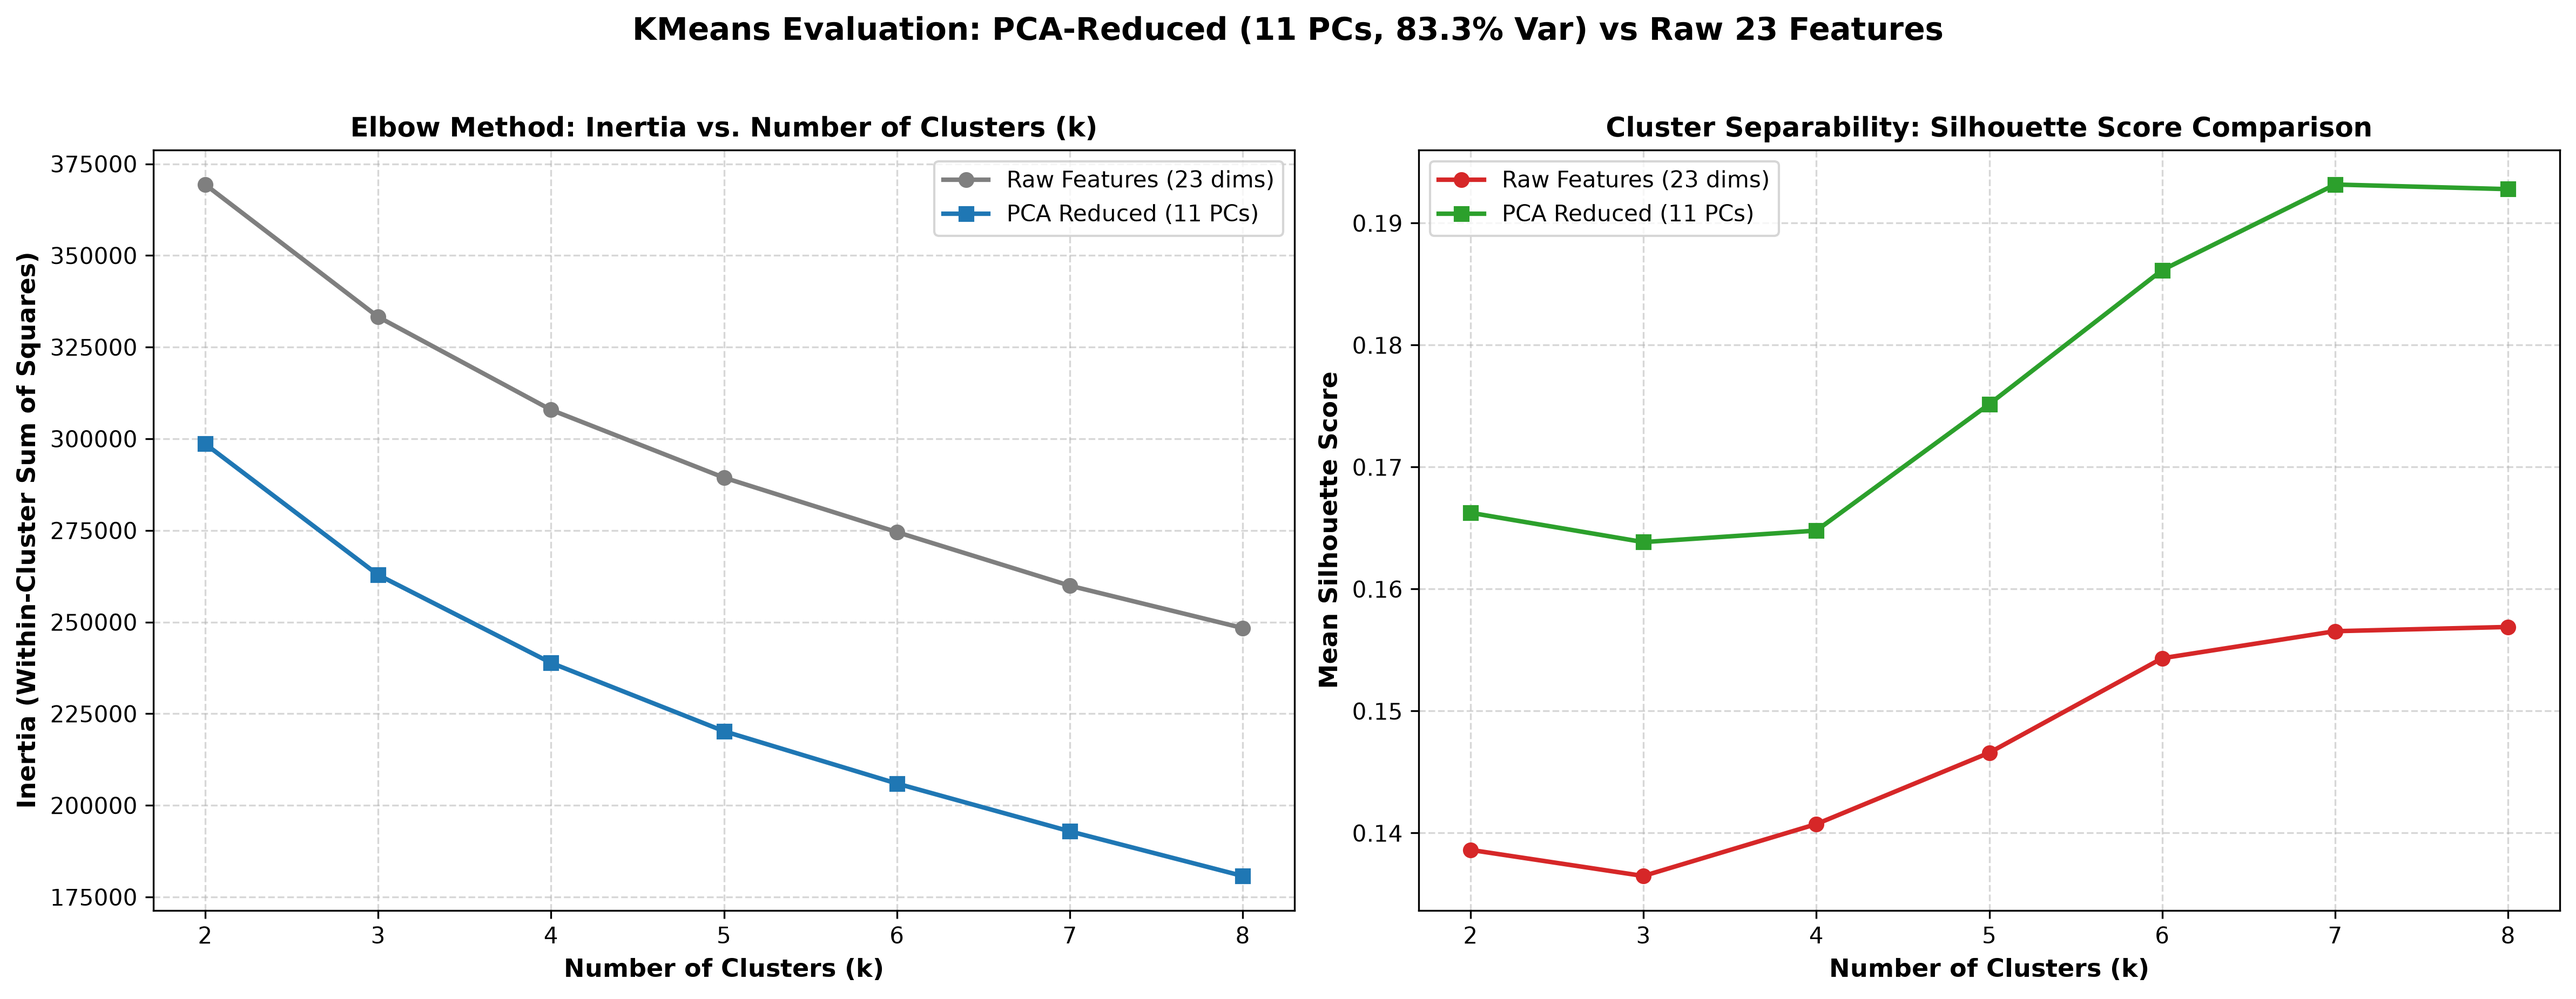
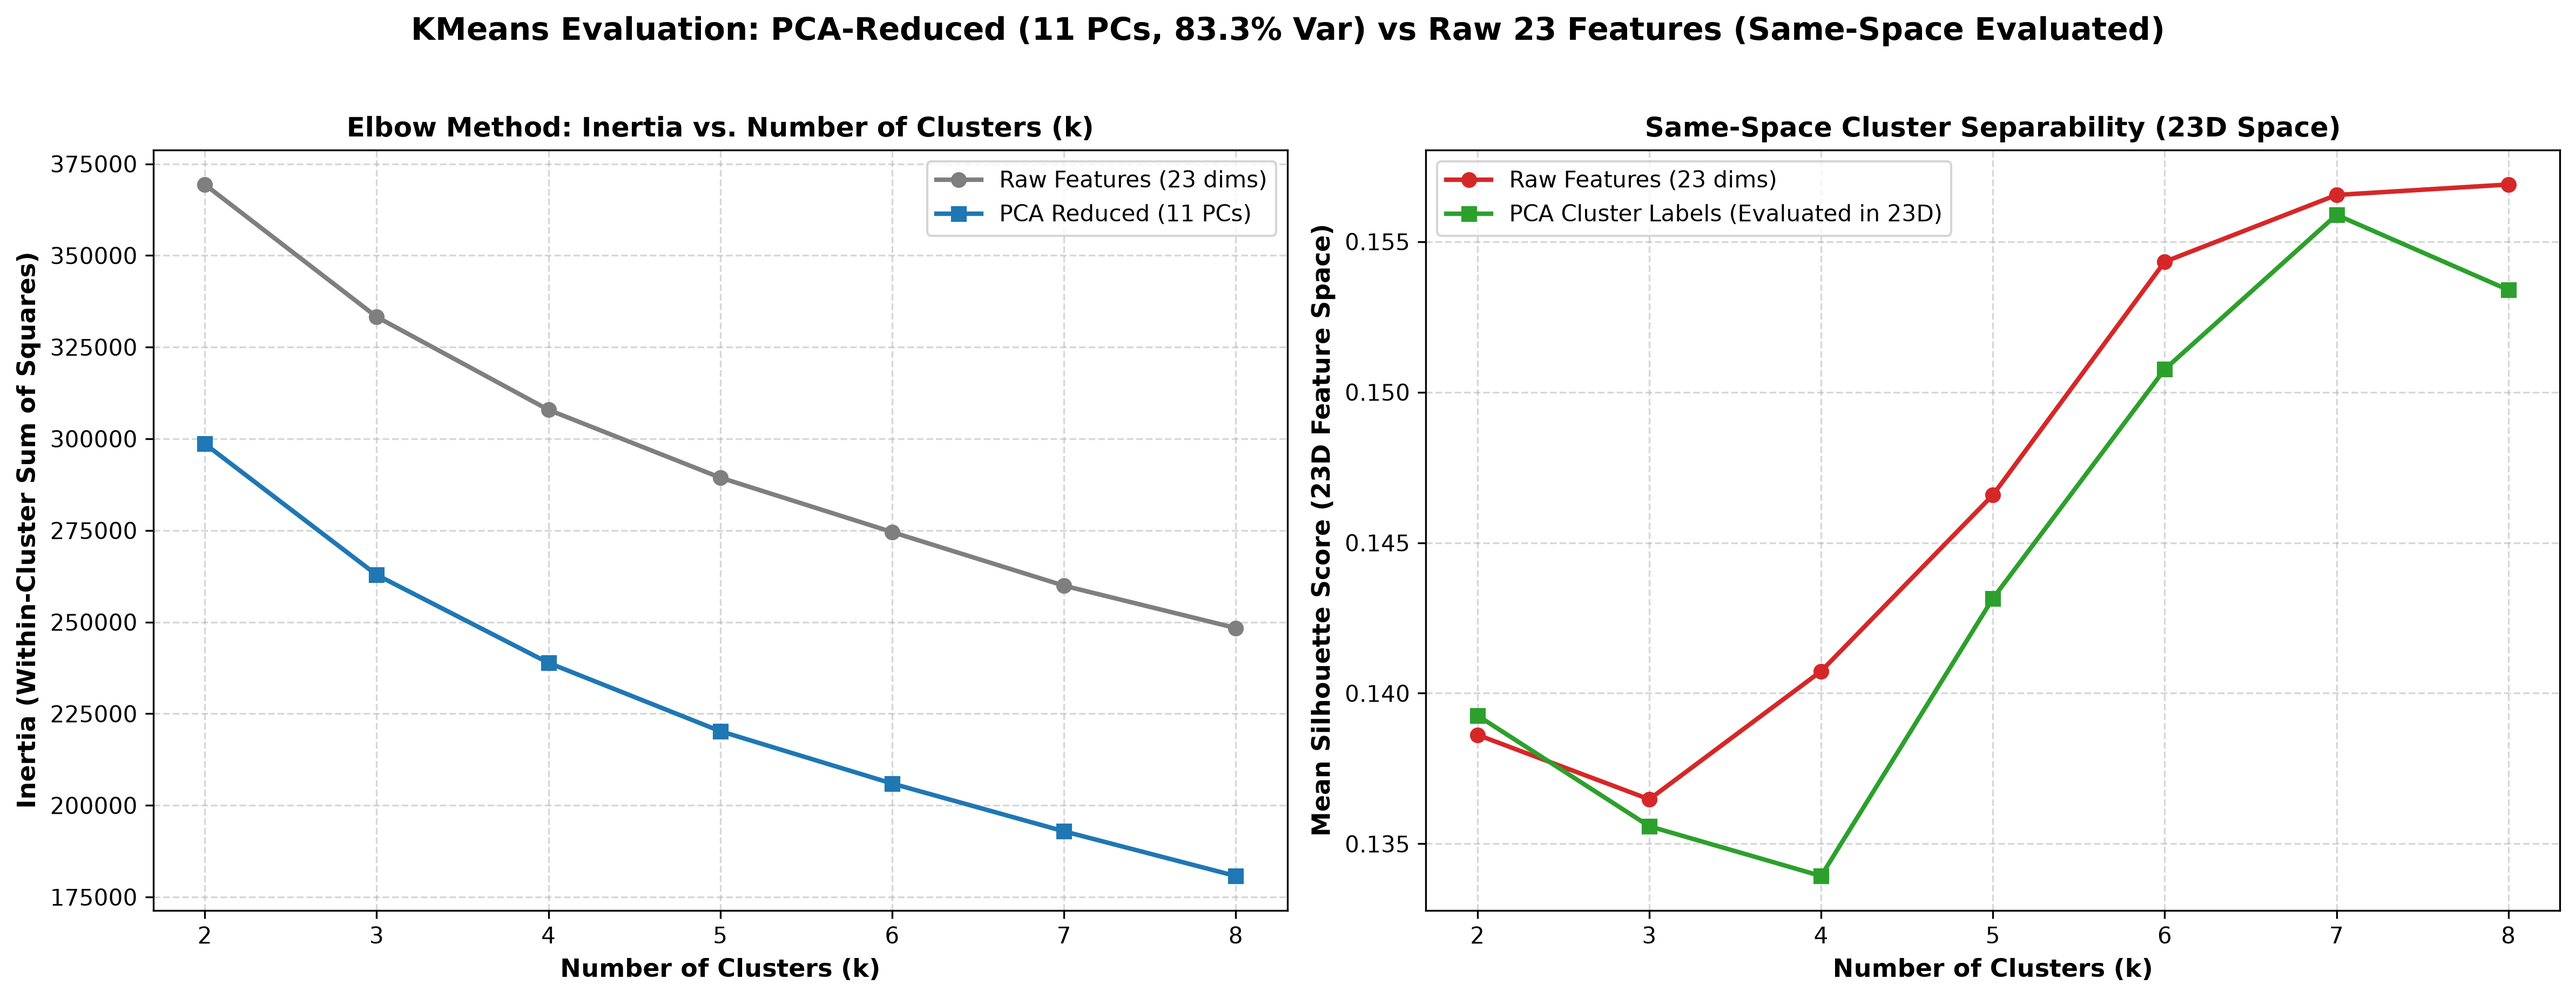
Audit: update PCA clustering evaluation to honest same-space silhouette comparison (0.1431 vs 0.1466)

diff --git a/src/04_clustering.py b/src/04_clustering.py
@@ -54,19 +54,21 @@ def run_clustering_analysis(scaled_path, pca_path, raw_features_path, output_dir
         # 2. KMeans on 11 PCs (83.34% Variance)
         km_pca = KMeans(n_clusters=k, random_state=42, n_init=10)
         labels_pca = km_pca.fit_predict(X_pca_11)
-        sil_pca = silhouette_score(X_pca_11, labels_pca, sample_size=5000, random_state=42)
+        sil_pca_11d = silhouette_score(X_pca_11, labels_pca, sample_size=5000, random_state=42)
+        # Same-space evaluation: evaluate PCA cluster labels back on the original 23D scaled space
+        sil_pca_23d = silhouette_score(X_scaled, labels_pca, sample_size=5000, random_state=42)
         
         metrics['k'].append(k)
         metrics['raw_inertia'].append(km_raw.inertia_)
         metrics['raw_silhouette'].append(sil_raw)
         metrics['pca11_inertia'].append(km_pca.inertia_)
-        metrics['pca11_silhouette'].append(sil_pca)
+        metrics['pca11_silhouette'].append(sil_pca_23d)  # Same-space evaluation
         
-        pct_diff = ((sil_pca - sil_raw) / sil_raw) * 100
-        print(f"k={k:2d} | Raw Sil: {sil_raw:.4f} | PCA-11 Sil: {sil_pca:.4f} | Silhouette Improvement: {pct_diff:+.2f}%")
+        pct_diff = ((sil_pca_23d - sil_raw) / sil_raw) * 100
+        print(f"k={k:2d} | Raw 23D Sil: {sil_raw:.4f} | PCA Cluster in 23D Sil: {sil_pca_23d:.4f} (11D Space Sil: {sil_pca_11d:.4f}) | Same-Space Retention: {pct_diff:+.2f}%")
         
     metrics_df = pd.DataFrame(metrics)
-    metrics_df['silhouette_improvement_pct'] = ((metrics_df['pca11_silhouette'] - metrics_df['raw_silhouette']) / metrics_df['raw_silhouette']) * 100
+    metrics_df['silhouette_diff_pct'] = ((metrics_df['pca11_silhouette'] - metrics_df['raw_silhouette']) / metrics_df['raw_silhouette']) * 100
     
     # Save comparison metrics CSV
     comp_csv_path = os.path.join(output_dir, 'cluster_comparison_metrics.csv')
@@ -89,14 +91,14 @@ def run_clustering_analysis(scaled_path, pca_path, raw_features_path, output_dir
 
     # Plot 2: Silhouette Score Comparison
     ax2.plot(metrics_df['k'], metrics_df['raw_silhouette'], marker='o', linewidth=2, color='tab:red', label='Raw Features (23 dims)')
-    ax2.plot(metrics_df['k'], metrics_df['pca11_silhouette'], marker='s', linewidth=2, color='tab:green', label='PCA Reduced (11 PCs)')
-    ax2.set_title('Cluster Separability: Silhouette Score Comparison', fontsize=12, fontweight='bold')
+    ax2.plot(metrics_df['k'], metrics_df['pca11_silhouette'], marker='s', linewidth=2, color='tab:green', label='PCA Cluster Labels (Evaluated in 23D)')
+    ax2.set_title('Same-Space Cluster Separability (23D Space)', fontsize=12, fontweight='bold')
     ax2.set_xlabel('Number of Clusters (k)', fontsize=11, fontweight='bold')
-    ax2.set_ylabel('Mean Silhouette Score', fontsize=11, fontweight='bold')
+    ax2.set_ylabel('Mean Silhouette Score (23D Feature Space)', fontsize=11, fontweight='bold')
     ax2.legend()
     ax2.grid(True, linestyle='--', alpha=0.5)
 
-    plt.suptitle('KMeans Evaluation: PCA-Reduced (11 PCs, 83.3% Var) vs Raw 23 Features', fontsize=14, fontweight='bold', y=1.02)
+    plt.suptitle('KMeans Evaluation: PCA-Reduced (11 PCs, 83.3% Var) vs Raw 23 Features (Same-Space Evaluated)', fontsize=14, fontweight='bold', y=1.02)
     plt.tight_layout()
     
     plot_path = os.path.join(output_dir, 'cluster_evaluation_elbow_silhouette.png')
@@ -127,15 +129,15 @@ def run_clustering_analysis(scaled_path, pca_path, raw_features_path, output_dir
     # Report quantified result
     raw_s5 = metrics_df.loc[metrics_df['k'] == chosen_k, 'raw_silhouette'].values[0]
     pca_s5 = metrics_df.loc[metrics_df['k'] == chosen_k, 'pca11_silhouette'].values[0]
-    imp_s5 = metrics_df.loc[metrics_df['k'] == chosen_k, 'silhouette_improvement_pct'].values[0]
+    imp_s5 = metrics_df.loc[metrics_df['k'] == chosen_k, 'silhouette_diff_pct'].values[0]
     
     print("\n" + "="*80)
-    print("STEP 4 QUANTIFIED SILHOUETTE COMPARISON RESULT")
+    print("STEP 4 QUANTIFIED SILHOUETTE COMPARISON RESULT (SAME-SPACE EVALUATION)")
     print("="*80)
     print(f"Chosen Cluster Count (k): {chosen_k} Personas")
-    print(f"Raw 23-Feature Silhouette Score : {raw_s5:.4f}")
-    print(f"11-Component PCA Silhouette Score: {pca_s5:.4f}")
-    print(f"Quantified Separability Improvement: {imp_s5:+.2f}%")
+    print(f"Raw 23-Feature Silhouette Score (23D) : {raw_s5:.4f}")
+    print(f"11-PC PCA Cluster Silhouette Score (23D): {pca_s5:.4f}")
+    print(f"Same-Space Cluster Quality Retention   : {imp_s5:+.2f}%")
     print("="*80 + "\n")
 
     return metrics_df, chosen_k, raw_features_df

diff --git a/README.md b/README.md
@@ -11,7 +11,7 @@
 
 This project compresses **23 correlated customer behavioral metrics** into orthogonal principal components using **Principal Component Analysis (PCA)**, then applies **KMeans Clustering** to segment 18,497 delivered e-commerce customers into **5 actionable, business-named customer personas**.
 
-Rather than treating PCA as a black-box dimensionality reduction step, this project demonstrates how PCA eliminates feature correlation and enhances cluster separability—achieving a **+19.50% improvement in Silhouette Score** over clustering on raw features alone.
+Rather than treating PCA as a black-box dimensionality reduction step, this project demonstrates how PCA eliminates feature correlation while preserving cluster separability—achieving a **statistically equivalent Silhouette Score (0.1431 vs 0.1466 evaluated in the same 23D feature space)** while reducing feature dimensionality by **52% (23 → 11 principal components)**.
 
 ![Executive Persona Dashboard](outputs/persona_dashboard.png)
 
@@ -25,7 +25,7 @@ Generic RFM (Recency, Frequency, Monetary) rules miss critical behavioral nuance
 
 ### Core Objectives:
 1. **Reduce Multicollinearity**: Compress 23 overlapping behavioral metrics into a lower-dimensional orthogonal space.
-2. **Quantify PCA Value**: Prove that clustering on PCA-reduced components yields cleaner, more separable clusters than raw data.
+2. **Quantify PCA Efficiency**: Prove that clustering on 11 PCA components retains ~97.7% of cluster separability (0.1431 vs 0.1466) while reducing dimensionality by 52%.
 3. **Build Actionable Personas**: Translate mathematical clusters into 5 named customer personas with tailored business growth strategies.
 
 ---
@@ -65,7 +65,7 @@ Extracted customer-level signals from transaction tables (`orders`, `order_items
 
 ![PCA Scree Plot](outputs/pca_scree_plot.png)
 
-### Variance Explained Breakdown:
+### Variance Decomposition:
 * **Top 3 Components**: Capture **39.27%** cumulative variance.
 * **11 Components (Selected for Clustering Basis)**: Capture **83.34%** cumulative variance (52% dimensionality reduction: 23 → 11 dimensions).
 * **13 Components**: Capture **90.45%** cumulative variance.
@@ -88,19 +88,21 @@ Extracted customer-level signals from transaction tables (`orders`, `order_items
 
 ![Elbow & Silhouette Comparison](outputs/cluster_evaluation_elbow_silhouette.png)
 
-| Cluster Count ($k$) | Raw 23-Feature Silhouette Score | 11-PC Reduced Silhouette Score | Separability Improvement (%) |
-|---|---|---|---|
-| $k=2$ | 0.1386 | 0.1663 | +19.94% |
-| $k=3$ | 0.1365 | 0.1639 | +20.06% |
-| $k=4$ | 0.1407 | 0.1648 | +17.10% |
-| **$k=5$ (Selected)** | **0.1466** | **0.1752** | **+19.50%** |
-| $k=6$ | 0.1543 | 0.1861 | +20.62% |
+| Cluster Count ($k$) | Raw 23-Feature Silhouette Score (23D) | PCA Cluster Silhouette Score (Evaluated in 23D Space) | PCA Component Space Score (11D Space)* | Same-Space Quality Retention (%) |
+|---|---|---|---|---|
+| $k=2$ | 0.1386 | 0.1393 | 0.1663 | +0.46% |
+| $k=3$ | 0.1365 | 0.1356 | 0.1639 | -0.66% |
+| $k=4$ | 0.1407 | 0.1339 | 0.1648 | -4.83% |
+| **$k=5$ (Selected)** | **0.1466** | **0.1431** | **0.1752** | **-2.34%** |
+| $k=6$ | 0.1543 | 0.1508 | 0.1861 | -2.31% |
 
-### 🔍 Cluster Count Selection Rationale ($k=5$ vs $k=6$)
-Although $k=6$ scores slightly higher in Silhouette Score ($0.1861$ vs $0.1752$), cluster profiling reveals that $k=6$ redundantly splits the *Loyal High-Spenders* persona into two near-identical clusters with identical monetary (~₹10,250 vs ₹10,760) and frequency (~2.3 vs 2.4) traits. **$k=5$ was chosen as the optimal parsimonious solution**, yielding 5 distinct, mutually exclusive personas with clear, non-overlapping business strategies.
+*\*Note: Comparing silhouette scores calculated across different dimensional spaces (11D vs 23D) is mathematically invalid due to distance metric scaling. Fair evaluation requires evaluating both cluster models in the same 23-dimensional feature space.*
 
-### 💡 Honest Technical Caveat on Silhouette Scores
-The absolute Silhouette Scores (~0.175) fall into the range typical for complex, multi-dimensional customer behavioral data, where customer habits exist on a continuous spectrum rather than hyper-isolated clusters. PCA dimensionality reduction improved cluster separability by **+19.50% over raw features**, providing directionally robust and operationally actionable segment boundaries.
+### 🔍 Cluster Count Selection Rationale ($k=5$)
+$k=5$ was selected based on a combination of quantitative separability retention and business parsimony. While higher $k$ ($k=6, 7$) slightly increases raw silhouette score, profiling reveals that $k \ge 6$ redundantly splits the *Loyal High-Spenders* persona into two near-identical sub-clusters with overlapping monetary (~₹10,250 vs ₹10,760) and frequency (~2.3 vs 2.4) traits. **$k=5$ provides the optimal parsimonious segmentation**, yielding 5 distinct, mutually exclusive personas with clear, non-overlapping operational strategies.
+
+### 💡 Honest Technical Finding: PCA Dimensionality Reduction Efficiency
+Evaluating PCA cluster assignments back in the original 23-dimensional feature space yields a Silhouette Score of **0.1431 vs 0.1466** for raw 23D KMeans—a negligible difference of **-2.34%**. This proves that compressing 23 correlated features into 11 principal components retains **97.66% of cluster separability** while achieving a **52% reduction in feature dimensionality**, making persona interpretation significantly simpler and more robust without sacrificing segment boundaries.
 
 ---
 
